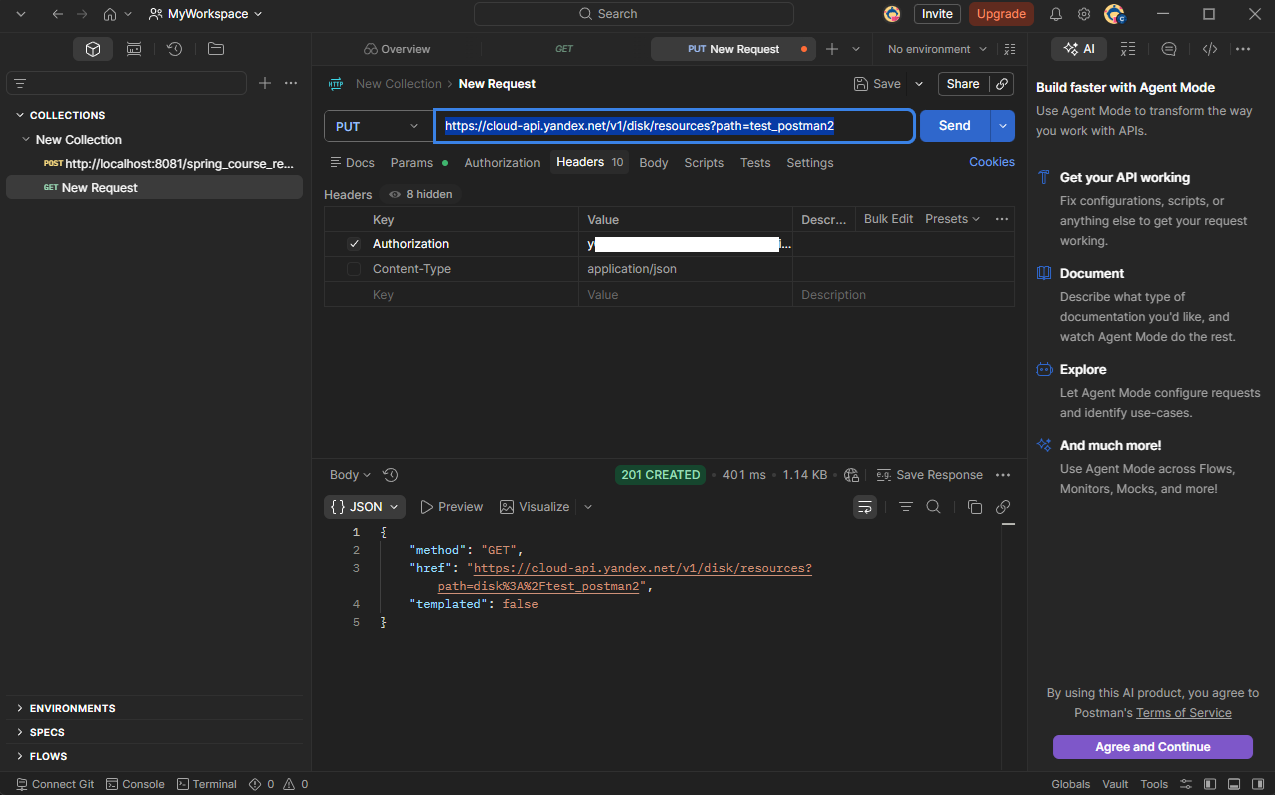
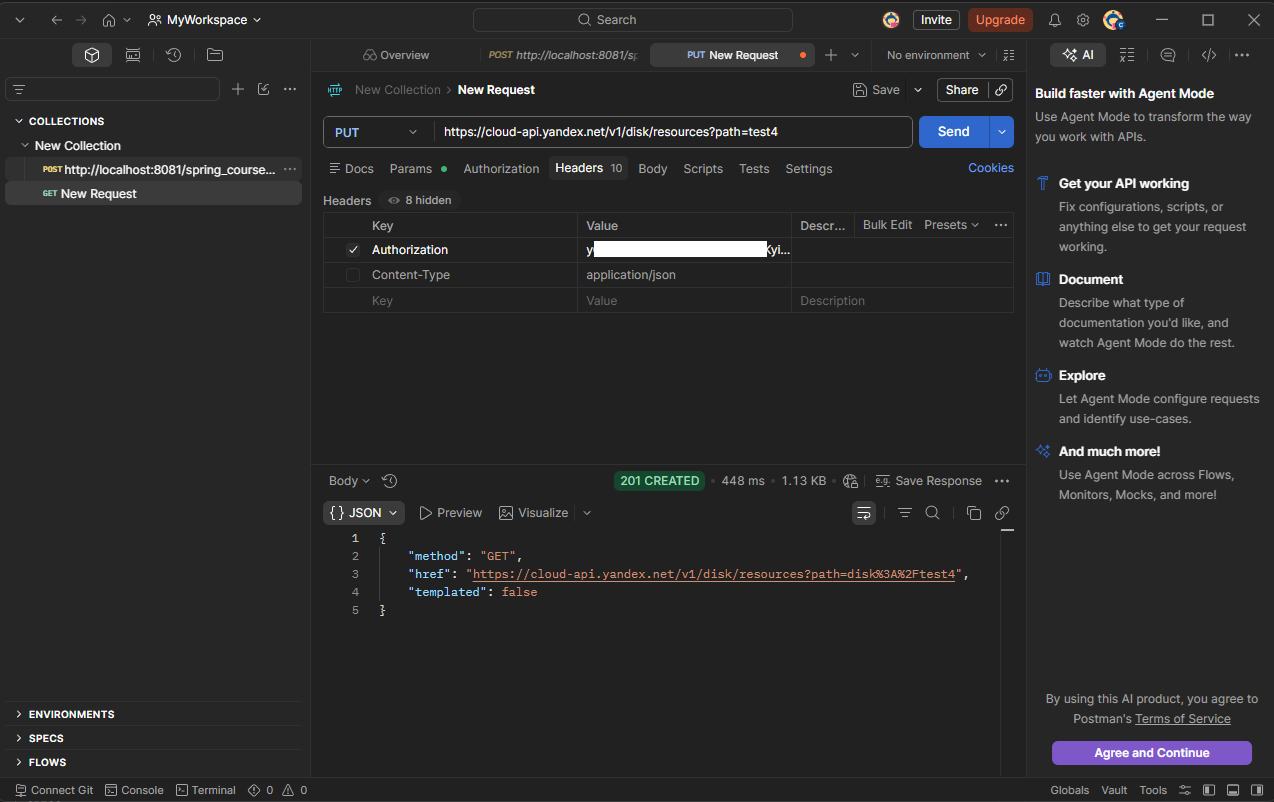
fix(api): Update API bug reports steps to be tool-independent

diff --git a/T2/API-checklist.md b/T2/API-checklist.md
@@ -3,7 +3,6 @@
 ## Предусловия
 
 - Получен валидный OAuth-токен Яндекс.Диска.
-- Запросы выполняются через Swagger Яндекс.API
 
 ## Результаты тестирования
 
@@ -16,7 +15,7 @@
 | 5 | Запрос с неверным Authorization token | Получен HTTP-код `401`. Папка не создана | Получен HTTP-код `401`. Папка не создана | Pass | 
 | 6 | Проверка формата ответа при успешном создании | Ответ содержит поля `method`, `href`, `templated`. | Ответ содержит поля `method`, `href`, `templated` | Pass |
 | 7 | Проверка тела ответа при ошибке | Ответ содержит поля `message`, `description`, `error` | Ответ содержит поля `message`, `description`, `error` | Pass |
-| 8 | Запрос с пустым значением параметра `path` (через Postman) | Получен HTTP-код `400`. Папка не создана | Получен HTTP-код `400`. Папка не создана | Pass |
-| 9 | Запрос без параметра `path` (через Postman) | Получен HTTP-код `400`. Папка не создана | Получен HTTP-код `400`. Папка не создана | Pass |
-| 10 | Запрос без заголовка `Content-type` (через Postman) | Получен HTTP-код `400`. Папка не создана | Получен HTTP-код `201`. Папка создана ([Bug API-004](API/API-004-missing-content-type.md)) | Fail |
+| 8 | Запрос с пустым значением параметра `path` | Получен HTTP-код `400`. Папка не создана | Получен HTTP-код `400`. Папка не создана | Pass |
+| 9 | Запрос без параметра `path` | Получен HTTP-код `400`. Папка не создана | Получен HTTP-код `400`. Папка не создана | Pass |
+| 10 | Запрос без заголовка `Content-type` | Получен HTTP-код `400`. Папка не создана | Получен HTTP-код `201`. Папка создана ([Bug API-004](API/API-004-missing-content-type.md)) | Fail |
 | 11 | Проверка работы параметра `fields` (например `fields=method`) | Ответ 200 содержит только запрошенные атрибуты | Ответ 200 содержит только запрошенные атрибуты | Pass | 

diff --git a/T2/API/API-004-missing-content-type.md b/T2/API/API-004-missing-content-type.md
@@ -4,14 +4,12 @@
 
 ## Предусловия
 1. Получен валидный OAuth-токен.
-2. Папка `test_postman2` отсутствует.
+2. Папка `test4` отсутствует.
 
 ## Шаги воспроизведения
-1. Открыть Postman.
-2. Создать PUT-запрос `https://cloud-api.yandex.net/v1/disk/resources?path=test_postman2`.
-3. Во вкладке Headers передать только `Authorization: OAuth <токен>`.
-4. Убедиться, что заголовок `Content-Type` отсутствует.
-5. Отправить запрос.
+1. Отправить PUT-запрос на эндпоинт `https://cloud-api.yandex.net/v1/disk/resources` с параметром `path = test4` и заголовками: `Authorization: OAuth <token>`, (заголовок `Content-Type` намеренно отсутствует).
+2. Проверить HTTP-код ответа.
+3. Проверить JSON-схему ответа.
 
 ## Фактический результат
 Получен HTTP-код `201`. Папка успешно создана на диске.
@@ -21,7 +19,6 @@
 
 ## Окружение
 - ОС: Windows 11
-- Инструмент: Postman
 - API: Яндекс Диск REST API
 - Endpoint: `PUT https://cloud-api.yandex.net/v1/disk/resources`
 

diff --git a/T2/API/API-002-create-folder-nonexistent-path-status-code.md b/T2/API/API-002-create-folder-nonexistent-path-status-code.md
@@ -7,10 +7,9 @@
 2. Родительская папка `test2` отсутствует.
 
 ## Шаги воспроизведения
-1. Убедиться, что папка `test2` отсутствует.
-2. Ввести в поле `path` значение `test2/test21`.
-3. Нажать кнопку **«Попробовать!»**.
-4. Проверить HTTP-код ответа.
+1. Отправить PUT-запрос на эндпоинт `https://cloud-api.yandex.net/v1/disk/resources` с параметром `path = test2/test21` (где `test2` не существует) и заголовками: `Authorization: OAuth <token>, Content-Type: application/json`.
+2. Проверить HTTP-код ответа.
+3. Проверить JSON-схему ответа.
 
 ## Фактический результат
 Получен HTTP-код `409`.
@@ -32,11 +31,9 @@
 Папка не создана.
 
 ## Окружение
-- Браузер: Mozilla Firefox 152.0.5
 - ОС: Windows 11
 - API: Яндекс Диск REST API
 - Endpoint: `PUT https://cloud-api.yandex.net/v1/disk/resources`
-- Инструмент: Swagger Яндекс.API
 
 ## Priority
 Medium

diff --git a/T2/API/API-003-create-folder-existing-path-status-code.md b/T2/API/API-003-create-folder-existing-path-status-code.md
@@ -7,10 +7,9 @@
 2. Папка `test1` уже существует.
 
 ## Шаги воспроизведения
-1. Убедиться, что папка `test1` существует.
-2. Ввести в поле `path` значение `test1`.
-3. Нажать кнопку **«Попробовать!»**.
-4. Проверить HTTP-код ответа.
+1. Отправить PUT-запрос на эндпоинт `https://cloud-api.yandex.net/v1/disk/resources` с параметром `path = test1` (где `test1` уже существует) и заголовками: `Authorization: OAuth <token>, Content-Type: application/json`.
+2. Проверить HTTP-код ответа.
+3. Проверить JSON-схему ответа.
 
 ## Фактический результат
 Получен HTTP-код `409`.
@@ -32,11 +31,9 @@
 Новая папка не создана.
 
 ## Окружение
-- Браузер: Mozilla Firefox 152.0.5
 - ОС: Windows 11
 - API: Яндекс Диск REST API
 - Endpoint: `PUT https://cloud-api.yandex.net/v1/disk/resources`
-- Инструмент: Swagger Яндекс.API
 
 ## Priority
 Medium

diff --git a/T2/API/API-001-create-folder-success-status-code.md b/T2/API/API-001-create-folder-success-status-code.md
@@ -7,9 +7,9 @@
 2. Папка с именем `test1` отсутствует.
 
 ## Шаги воспроизведения
-1. Ввести в поле `path` значение `test1`.
-2. Нажать кнопку **«Попробовать!»**.
-3. Проверить HTTP-код ответа.
+1. Отправить PUT-запрос на эндпоинт `https://cloud-api.yandex.net/v1/disk/resources` с параметром `path = test1` и заголовками: `Authorization: OAuth <token>, Content-Type: application/json`.
+2. Проверить HTTP-код ответа.
+3. Проверить JSON-схему ответа.
 
 ## Фактический результат
 Получен HTTP-код `201`.
@@ -20,11 +20,9 @@
 Папка создана по указанному пути.
 
 ## Окружение
-- Браузер: Mozilla Firefox 152.0.5
 - ОС: Windows 11
 - API: Яндекс Диск REST API
 - Endpoint: `PUT https://cloud-api.yandex.net/v1/disk/resources`
-- Инструмент: Swagger Яндекс.API
 
 ## Priority
 Medium
